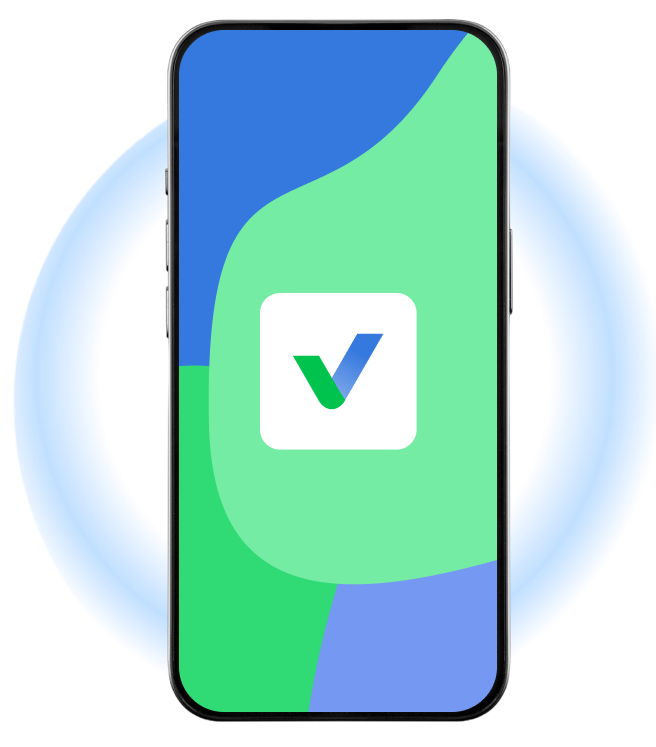
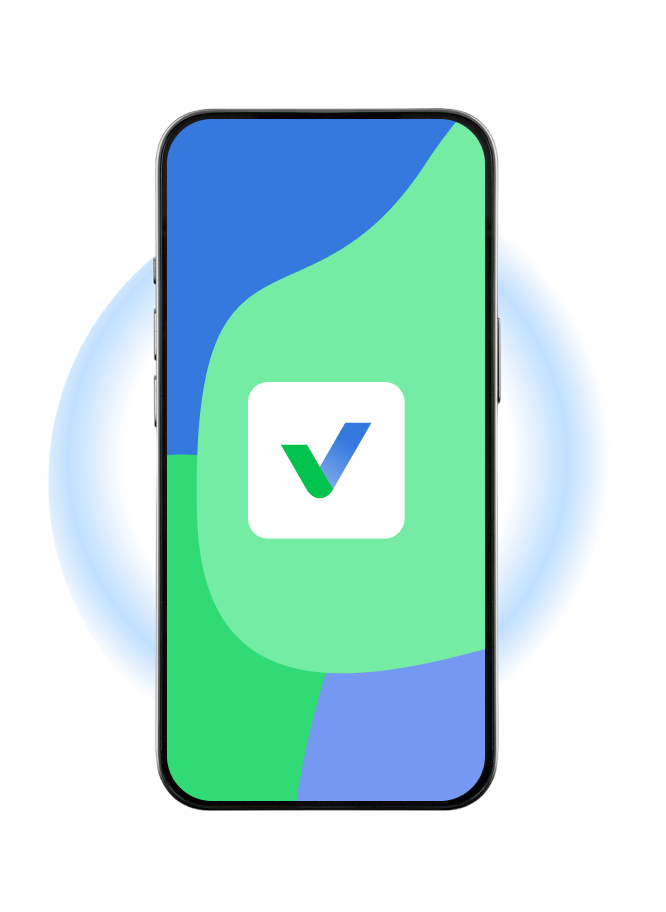
mobile frame updated

diff --git a/src/components/organisms/section-2/Section2.js b/src/components/organisms/section-2/Section2.js
@@ -1,6 +1,6 @@
 import { useI18n } from "~/i18n";
 import Title from '~/components/atoms/Title/Title';
-import ImageSection2 from '~/assets/static/images/section2/mobile.png';
+import ImageSection2 from '~/assets/static/images/section2/mobilecircle.png';
 import Image from "next/image";
 
 export default function Section2({
@@ -35,11 +35,11 @@ export default function Section2({
             </p>
           </div>
 
-          <div className="flex flex-col sm:flex-col xl:flex-row w-full mt-[2rem] xl:mt-[4rem] px-[2rem] text-center xl:text-start xl:px-[100px] justify-between">
-          <div className="flex justify-center xl:justify-end xl:w-1/2 mt-[2rem] xl:mt-0">
-              <div className="sm:h-[212px] xl:h-[682px] w-full xl:w-auto relative">
+          <div className="flex flex-col sm:flex-col xl:flex-row w-full mt-[0rem] xl:mt-[2rem] px-[2rem] text-center xl:text-start xl:px-[100px] justify-between">
+          <div className="flex justify-center xl:w-1/2 mt-[2rem] xl:mt-[0rem]">
+              <div className="w-auto xl:w-auto relative">
                 <Image
-                  className="h-[212px] xl:h-[630px]"
+                  className="h-[300px] xl:h-[800px]"
                   src={ImageSection2}
                   width="0"
                   height="0"
@@ -47,7 +47,7 @@ export default function Section2({
                 />
               </div>
             </div>
-            <div className="flex flex-col items-start sm:w-full xl:w-1/2 px-[0rem] xl:px-[6rem]">
+            <div className="flex flex-col items-start sm:w-full xl:w-1/2 px-[0rem] xl:px-[6rem] xl:mt-[4rem]">
               <div className="mt-[1rem] xl:mt-[2rem] mb-[1rem]">
                 <Title H="h5spaced" Text={title1} TitleClassProps="text-white font-bold mb-[1rem]" />
                 <p className="text-white text-[0.9rem] leading-[0.9rem] md:text-[1.25rem] md:leading-[1.5rem] lg:text-[1.5rem] lg:leading-[1.75rem] xl:text-[18px] xl:leading-[25px]">
@@ -76,7 +76,7 @@ export default function Section2({
             </div>
           </div>
 
-          <div className="w-full max-w-md md:max-w-lg items-center sm:px-0 mt-[2rem]">
+          <div className="w-full max-w-md md:max-w-lg items-center sm:px-0 mt-[0rem]">
             <button
                 className={`medium primary text-white
                             w-[315px] h-[45px] ml-[10px] xl:ml-[130px]

diff --git a/src/components/organisms/section-1/Section1.js b/src/components/organisms/section-1/Section1.js
@@ -1,9 +1,10 @@
 import PropTypes from 'prop-types';
+import { useEffect } from 'react';
 import ImageAtomLocal from '~/components/atoms/imageAtom/ImageAtomLocal';
 import Title from '~/components/atoms/Title/Title';
 import Button2 from '~/components/atoms/button/Button1.js';
 
-export default function section1({
+export default function Section1({
   sizeImg,
   borderImg,
   src,
@@ -18,6 +19,24 @@ export default function section1({
   mainText2,
   subText2
 }) {
+  useEffect(() => {
+    // Add the CSS for the gradient text when the component is mounted
+    const style = document.createElement('style');
+    style.innerHTML = `
+      .gradient-text {
+        background: linear-gradient(180deg, #30DA74 100%, #3578DE 100%);
+        -webkit-background-clip: text;
+        -webkit-text-fill-color: transparent;
+      }
+    `;
+    document.head.appendChild(style);
+    
+    // Cleanup the style element when the component is unmounted
+    return () => {
+      document.head.removeChild(style);
+    };
+  }, []);
+
   const applyGradient = (text) => {
     const gradientText = text.replace(
       /CoughCheck/g,
@@ -101,13 +120,3 @@ export default function section1({
     </div>
   );
 }
-
-const style = document.createElement('style');
-style.innerHTML = `
-  .gradient-text {
-    background: linear-gradient(180deg, #30DA74 100%, #3578DE 100%%);
-    -webkit-background-clip: text;
-    -webkit-text-fill-color: transparent;
-  }
-`;
-document.head.appendChild(style);
